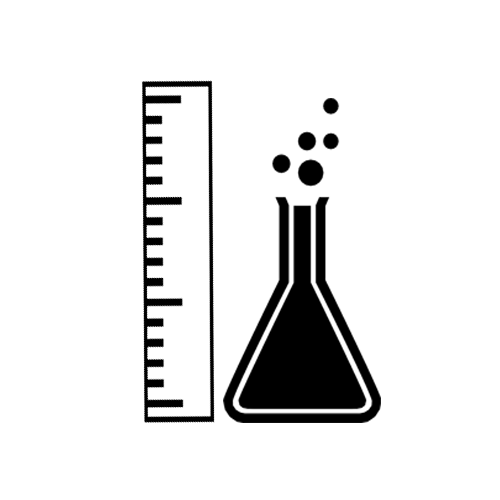
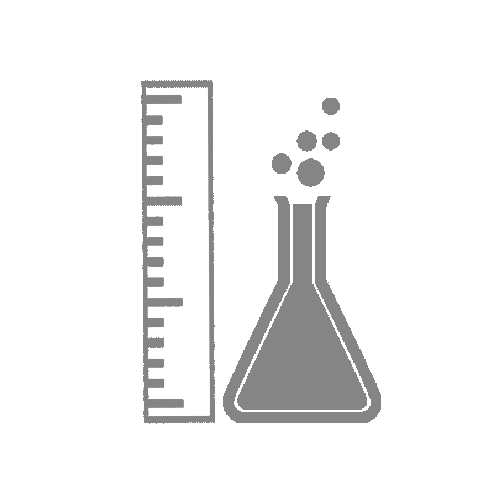
changing images in the home view

Changed region(s): [[0.27, 0.15, 0.78, 0.87], [0.63, 0.18, 0.69, 0.24]]

diff --git a/www/templates/home.html b/www/templates/home.html
@@ -6,7 +6,7 @@
         <div id="wrapper-home">
             <div class="box-home">
                 <div class="home-item" ui-sref="app.dash-board">
-                    <img class="item-img" src="img/registrar.png">
+                    <img class="item-img" src="img/anotar.png">
                     <div class="col-right">
                         <span>Anotar</span>
                     </div>
@@ -18,7 +18,7 @@
                     </div>
                 </div>
                 <div class="home-item" ui-sref="app.exam">
-                    <img class="item-img" src="img/trabalhos.png">
+                    <img class="item-img" src="img/provas.png">
                     <div class="col-right">
                         <span>Provas</span>
                     </div>
